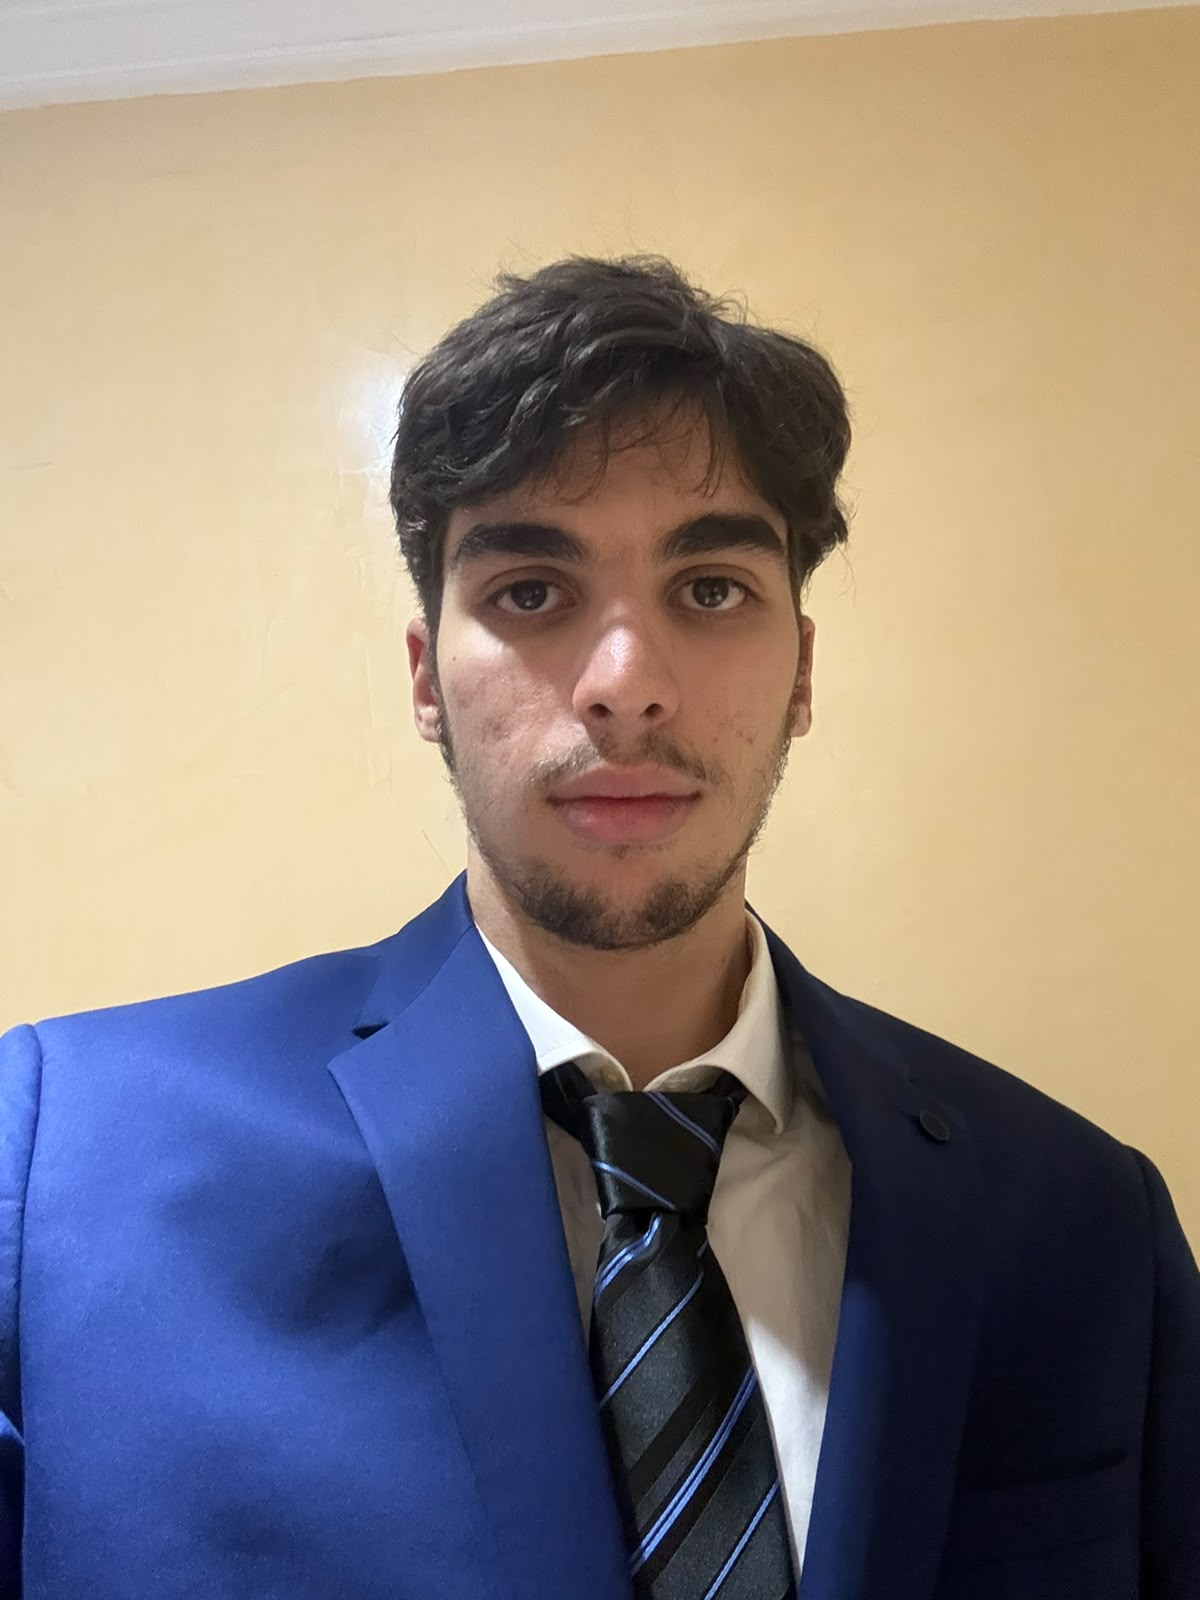
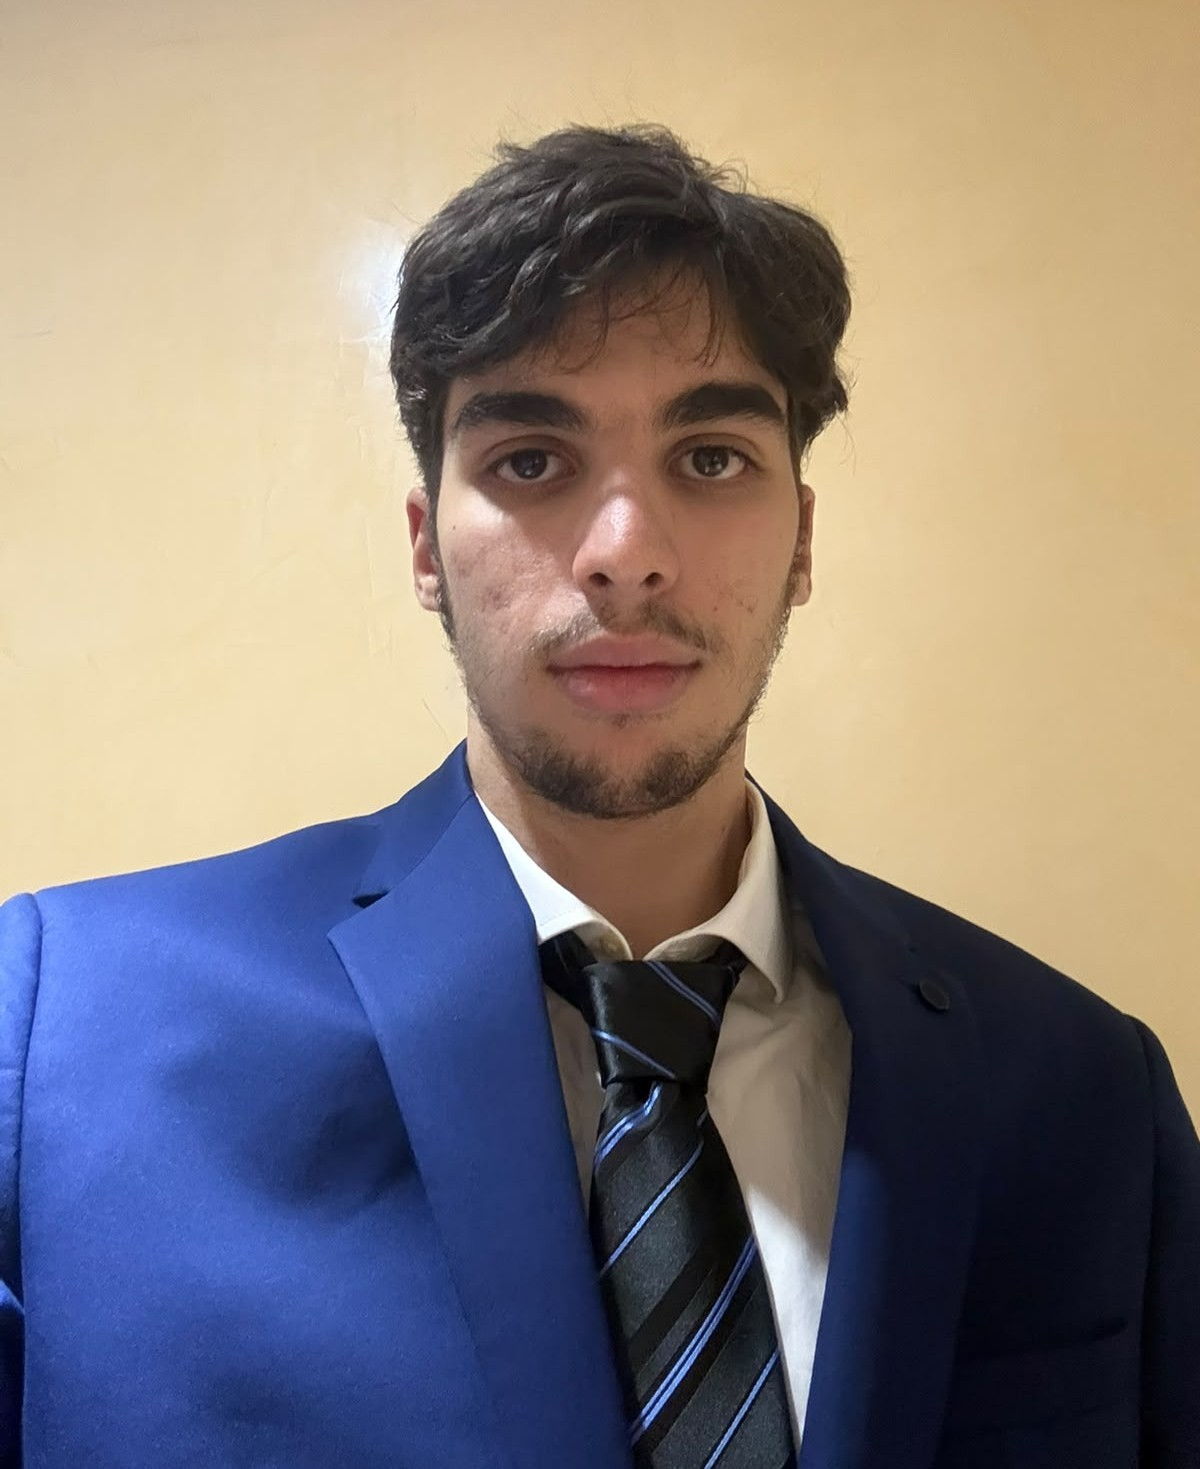
refine skills copy and enrich Wazuh and KASBAH cases

Changed region(s): [[0.0, 0.0, 1.0, 1.0]]

diff --git a/index.html b/index.html
@@ -115,7 +115,7 @@
 
         <aside class="hero-side panel" aria-labelledby="stats-title">
           <figure class="id-photo profile-photo">
-            <img src="assets/photo.jpeg?v=17a42ae" alt="Portrait de Ryad Boujenan" width="560" height="700" decoding="async">
+            <img src="assets/photo.jpeg?v=1396ab21" alt="Portrait de Ryad Boujenan" width="1200" height="1469" decoding="async">
           </figure>
 
           <div class="stats">
@@ -292,6 +292,15 @@
                   </dl>
                 </div>
                 <div class="detail-row">
+                  <h4>Interface Wazuh et alertes</h4>
+                  <figure class="detail-fig">
+                    <a href="assets/projets/wazuh-detection-alerts-rules.png" target="_blank" rel="noopener" title="Ouvrir l'interface Wazuh en grand">
+                      <img src="assets/projets/wazuh-detection-alerts-rules.png" alt="Interface Wazuh : alertes SSH et PAM et règle personnalisée 100002" width="924" height="396" loading="lazy" decoding="async">
+                    </a>
+                    <figcaption>Vue principale du projet : les alertes dans Wazuh, dont les échecs SSH/PAM et la règle personnalisée 100002.</figcaption>
+                  </figure>
+                </div>
+                <div class="detail-row">
                   <h4>Contexte</h4>
                   <p>
                     Déployer un SIEM open source sur une infrastructure hétérogène de plusieurs machines
@@ -342,7 +351,7 @@
                       <p>
                         Les échecs d'authentification SSH et PAM remontent dans le tableau de bord, aux
                         côtés de la règle personnalisée <code>100002</code> qui qualifie la création d'un
-                        compte utilisateur suspect — visible directement sur la carte du projet.
+                        compte utilisateur suspect — visible dans la capture de l'interface ci-dessus.
                       </p>
                     </li>
                   </ul>
@@ -397,6 +406,15 @@
                     <li>Coordination et communication avec les cellules techniques et les interlocuteurs externes.</li>
                     <li>Retour d'expérience utile pour un analyste : une alerte n'a de valeur que si elle est qualifiée et transmise clairement à ceux qui décident.</li>
                   </ul>
+                </div>
+                <div class="detail-row">
+                  <h4>Présentation devant le jury</h4>
+                  <figure class="detail-fig">
+                    <a href="assets/projets/Kasbah_presentation.jpeg" target="_blank" rel="noopener" title="Ouvrir la photo en grand">
+                      <img src="assets/projets/Kasbah_presentation.jpeg" alt="Jury et professionnels de la cybersécurité présents lors de l'exercice KASBAH 2026" width="1206" height="889" loading="lazy" decoding="async">
+                    </a>
+                    <figcaption>Une partie du jury et des professionnels présents lors de l'exercice de crise KASBAH 2026.</figcaption>
+                  </figure>
                 </div>
               </div>
             </details>
@@ -589,8 +607,7 @@
         <p class="eyebrow"><svg class="i" aria-hidden="true"><use href="#i-layers"/></svg>02 · Compétences</p>
         <h2>Outils et domaines</h2>
         <p class="section-sub">
-          Des fondamentaux réseau jusqu'à la détection, en passant par l'offensif et le cloud : les
-          domaines sur lesquels je me forme.
+          Mes domaines de pratique, à travers mes projets, mes laboratoires et mes stages.
         </p>
       </div>
 
@@ -601,8 +618,8 @@
             <h3>Détection &amp; SIEM</h3>
           </div>
           <p class="skill-lead">
-            J'écris des règles de détection sur Elastic Security et Wazuh, je les teste
-            dans mes laboratoires, puis j'analyse les alertes et les journaux Linux et Windows.
+            J'ai travaillé sur la collecte et l'analyse de journaux, la création de règles de
+            détection et l'investigation d'alertes dans mes projets.
           </p>
           <ul class="tags tags--quiet">
             <li>Splunk Enterprise Security (formation)</li><li>Elastic Security / ELK</li><li>Wazuh</li><li>Règles MITRE ATT&amp;CK</li><li>KQL</li><li>EQL</li><li>Triage d'alertes</li><li>Logs Linux &amp; Windows</li><li>Sysmon</li><li>PowerShell logging</li><li>Syslog</li><li>Wireshark</li>
@@ -613,7 +630,7 @@
             <span class="ico-tile"><svg class="i" aria-hidden="true"><use href="#i-server"/></svg></span>
             <h3>Réseaux &amp; systèmes</h3>
           </div>
-          <p class="skill-lead">Je monte mes environnements de travail : postes Linux et Windows, contrôleur de domaine Active Directory, machines virtuelles VMware, et GVM/OpenVAS déployé sous Docker chez Nethash.</p>
+          <p class="skill-lead">J'ai pratiqué l'administration de systèmes Linux et Windows, la virtualisation et les réseaux dans mes projets et mes stages.</p>
           <ul class="tags tags--quiet">
             <li>Linux (Red Hat, Ubuntu)</li><li>Windows Server</li><li>Active Directory</li><li>Docker</li><li>VMware</li><li>TCP/IP</li><li>DNS</li><li>TLS</li><li>VPN</li>
           </ul>
@@ -624,9 +641,8 @@
             <h3>Offensif</h3>
           </div>
           <p class="skill-lead">
-            Je simule des attaques dans mes laboratoires pour éprouver mes détections.
-            Chez Nethash, mes scans GVM/OpenVAS ont contribué à identifier
-            68 vulnérabilités et 122 CVE.
+            J'ai mené des exercices de reconnaissance et de test d'intrusion en laboratoire,
+            ainsi que des scans de vulnérabilités en stage.
           </p>
           <ul class="tags tags--quiet">
             <li>GVM / OpenVAS</li><li>Nessus</li><li>CVE / CVSS</li><li>Nmap</li>
@@ -637,12 +653,12 @@
             <span class="ico-tile"><svg class="i" aria-hidden="true"><use href="#i-cloud"/></svg></span>
             <h3>Cloud</h3>
           </div>
-          <p class="skill-lead">Je me forme aux fondamentaux du cloud avec AWS Academy : gestion des identités, calcul et stockage, réseau virtuel, supervision, et modèle de responsabilité partagée.</p>
+          <p class="skill-lead">J'ai une première expérience pratique d'AWS à travers des exercices d'infrastructure et de sécurité cloud.</p>
           <ul class="tags tags--quiet">
             <li>AWS Academy Cloud Foundations</li><li>IAM</li><li>EC2</li><li>S3</li><li>VPC</li><li>CloudWatch</li><li>Modèle de responsabilité partagée</li><li>Docker</li>
           </ul>
         </div>
-        <div class="skill-group skill-group--programming panel"><div class="panel-head"><span class="ico-tile"><svg class="i" aria-hidden="true"><use href="#i-code"/></svg></span><h3>Programmation</h3></div><ul class="tags tags--quiet"><li>Python</li><li>Java</li><li>C/C++</li><li>JavaScript</li><li>PHP</li><li>SQL</li><li>Bash</li><li>PowerShell</li><li>HTML/CSS</li><li>Django</li></ul></div>
+        <div class="skill-group skill-group--programming panel"><div class="panel-head"><span class="ico-tile"><svg class="i" aria-hidden="true"><use href="#i-code"/></svg></span><h3>Programmation</h3></div><p class="skill-lead">J'utilise différents langages et technologies selon les projets, du développement au scripting et à l'automatisation.</p><ul class="tags tags--quiet"><li>Python</li><li>Java</li><li>C/C++</li><li>JavaScript</li><li>PHP</li><li>SQL</li><li>Bash</li><li>PowerShell</li><li>HTML/CSS</li><li>Django</li></ul></div>
       </div>
 
 

diff --git a/en/index.html b/en/index.html
@@ -112,7 +112,7 @@
 
         <aside class="hero-side panel" aria-labelledby="stats-title">
           <figure class="id-photo profile-photo">
-            <img src="../assets/photo.jpeg?v=17a42ae" alt="Portrait of Ryad Boujenan" width="560" height="700" decoding="async">
+            <img src="../assets/photo.jpeg?v=1396ab21" alt="Portrait of Ryad Boujenan" width="1200" height="1469" decoding="async">
           </figure>
 
           <div class="stats">
@@ -288,6 +288,15 @@
                   </dl>
                 </div>
                 <div class="detail-row">
+                  <h4>Wazuh interface and alerts</h4>
+                  <figure class="detail-fig">
+                    <a href="../assets/projets/wazuh-detection-alerts-rules.png" target="_blank" rel="noopener" title="Open the Wazuh interface full size">
+                      <img src="../assets/projets/wazuh-detection-alerts-rules.png" alt="Wazuh interface: SSH and PAM alerts and custom rule 100002" width="924" height="396" loading="lazy" decoding="async">
+                    </a>
+                    <figcaption>The project's main view: alerts in Wazuh, including SSH/PAM failures and custom rule 100002.</figcaption>
+                  </figure>
+                </div>
+                <div class="detail-row">
                   <h4>Context</h4>
                   <p>
                     Deploy an open-source SIEM across a mixed infrastructure of several virtual
@@ -338,7 +347,7 @@
                       <p>
                         The SSH and PAM authentication failures surface on the dashboard, alongside the
                         custom rule <code>100002</code> that flags the creation of a suspicious user
-                        account — visible directly on the project card.
+                        account — visible in the interface screenshot above.
                       </p>
                     </li>
                   </ul>
@@ -393,6 +402,15 @@
                     <li>Coordinated and communicated with the technical cells and external stakeholders.</li>
                     <li>A useful lesson for an analyst: an alert is only worth something if it is qualified and passed on clearly to the people who decide.</li>
                   </ul>
+                </div>
+                <div class="detail-row">
+                  <h4>Presentation to the jury</h4>
+                  <figure class="detail-fig">
+                    <a href="../assets/projets/Kasbah_presentation.jpeg" target="_blank" rel="noopener" title="Open photo full size">
+                      <img src="../assets/projets/Kasbah_presentation.jpeg" alt="Jury and cybersecurity professionals attending the KASBAH 2026 exercise" width="1206" height="889" loading="lazy" decoding="async">
+                    </a>
+                    <figcaption>Some of the jury and professionals attending the KASBAH 2026 crisis exercise.</figcaption>
+                  </figure>
                 </div>
               </div>
             </details>
@@ -584,8 +602,7 @@
         <p class="eyebrow"><svg class="i" aria-hidden="true"><use href="#i-layers"/></svg>02 · Skills</p>
         <h2>Tools and areas</h2>
         <p class="section-sub">
-          From network fundamentals to detection, by way of offensive security and cloud: the areas
-          I'm building skills in.
+          The areas I've practised through projects, labs and internships.
         </p>
       </div>
 
@@ -596,8 +613,8 @@
             <h3>Detection &amp; SIEM</h3>
           </div>
           <p class="skill-lead">
-            I write detection rules on Elastic Security and Wazuh, test them in my labs,
-            then analyse the alerts and the Linux and Windows logs.
+            I've worked on log collection and analysis, detection rules and alert investigation
+            in my projects.
           </p>
           <ul class="tags tags--quiet">
             <li>Splunk Enterprise Security (training)</li><li>Elastic Security / ELK</li><li>Wazuh</li><li>MITRE ATT&amp;CK rules</li><li>KQL</li><li>EQL</li><li>Alert triage</li><li>Linux &amp; Windows logs</li><li>Sysmon</li><li>PowerShell logging</li><li>Syslog</li><li>Wireshark</li>
@@ -608,7 +625,7 @@
             <span class="ico-tile"><svg class="i" aria-hidden="true"><use href="#i-server"/></svg></span>
             <h3>Networks &amp; systems</h3>
           </div>
-          <p class="skill-lead">I build my own working environments: Linux and Windows hosts, an Active Directory domain controller, VMware virtual machines, and GVM/OpenVAS deployed in Docker at Nethash.</p>
+          <p class="skill-lead">I've gained hands-on experience with Linux and Windows administration, virtualisation and networking through projects and internships.</p>
           <ul class="tags tags--quiet">
             <li>Linux (Red Hat, Ubuntu)</li><li>Windows Server</li><li>Active Directory</li><li>Docker</li><li>VMware</li><li>TCP/IP</li><li>DNS</li><li>TLS</li><li>VPN</li>
           </ul>
@@ -619,9 +636,8 @@
             <h3>Offensive</h3>
           </div>
           <p class="skill-lead">
-            I simulate attacks in my labs to stress-test my detections.
-            At Nethash, my GVM/OpenVAS scans helped identify
-            68 vulnerabilities and 122 CVEs.
+            I've carried out reconnaissance and penetration testing exercises in labs,
+            as well as vulnerability scans during an internship.
           </p>
           <ul class="tags tags--quiet">
             <li>GVM / OpenVAS</li><li>Nessus</li><li>CVE / CVSS</li><li>Nmap</li>
@@ -632,12 +648,12 @@
             <span class="ico-tile"><svg class="i" aria-hidden="true"><use href="#i-cloud"/></svg></span>
             <h3>Cloud</h3>
           </div>
-          <p class="skill-lead">I am training on cloud fundamentals with AWS Academy: identity management, compute and storage, virtual networking, monitoring, and the shared responsibility model.</p>
+          <p class="skill-lead">I have initial hands-on experience with AWS through cloud infrastructure and security exercises.</p>
           <ul class="tags tags--quiet">
             <li>AWS Academy Cloud Foundations</li><li>IAM</li><li>EC2</li><li>S3</li><li>VPC</li><li>CloudWatch</li><li>Shared responsibility model</li><li>Docker</li>
           </ul>
         </div>
-        <div class="skill-group skill-group--programming panel"><div class="panel-head"><span class="ico-tile"><svg class="i" aria-hidden="true"><use href="#i-code"/></svg></span><h3>Programming</h3></div><ul class="tags tags--quiet"><li>Python</li><li>Java</li><li>C/C++</li><li>JavaScript</li><li>PHP</li><li>SQL</li><li>Bash</li><li>PowerShell</li><li>HTML/CSS</li><li>Django</li></ul></div>
+        <div class="skill-group skill-group--programming panel"><div class="panel-head"><span class="ico-tile"><svg class="i" aria-hidden="true"><use href="#i-code"/></svg></span><h3>Programming</h3></div><p class="skill-lead">I use different languages and technologies across projects, from development to scripting and automation.</p><ul class="tags tags--quiet"><li>Python</li><li>Java</li><li>C/C++</li><li>JavaScript</li><li>PHP</li><li>SQL</li><li>Bash</li><li>PowerShell</li><li>HTML/CSS</li><li>Django</li></ul></div>
       </div>
 
 

diff --git a/projets/index.html b/projets/index.html
@@ -243,6 +243,15 @@
                   </dl>
                 </div>
                 <div class="detail-row">
+                  <h4>Interface Wazuh et alertes</h4>
+                  <figure class="detail-fig">
+                    <a href="../assets/projets/wazuh-detection-alerts-rules.png" target="_blank" rel="noopener" title="Ouvrir l'interface Wazuh en grand">
+                      <img src="../assets/projets/wazuh-detection-alerts-rules.png" alt="Interface Wazuh : alertes SSH et PAM et règle personnalisée 100002" width="924" height="396" loading="lazy" decoding="async">
+                    </a>
+                    <figcaption>Vue principale du projet : les alertes dans Wazuh, dont les échecs SSH/PAM et la règle personnalisée 100002.</figcaption>
+                  </figure>
+                </div>
+                <div class="detail-row">
                   <h4>Contexte</h4>
                   <p>
                     Déployer un SIEM open source sur une infrastructure hétérogène de plusieurs machines
@@ -293,7 +302,7 @@
                       <p>
                         Les échecs d'authentification SSH et PAM remontent dans le tableau de bord, aux
                         côtés de la règle personnalisée <code>100002</code> qui qualifie la création d'un
-                        compte utilisateur suspect — visible directement sur la carte du projet.
+                        compte utilisateur suspect — visible dans la capture de l'interface ci-dessus.
                       </p>
                     </li>
                   </ul>
@@ -348,6 +357,15 @@
                     <li>Coordination et communication avec les cellules techniques et les interlocuteurs externes.</li>
                     <li>Retour d'expérience utile pour un analyste : une alerte n'a de valeur que si elle est qualifiée et transmise clairement à ceux qui décident.</li>
                   </ul>
+                </div>
+                <div class="detail-row">
+                  <h4>Présentation devant le jury</h4>
+                  <figure class="detail-fig">
+                    <a href="../assets/projets/Kasbah_presentation.jpeg" target="_blank" rel="noopener" title="Ouvrir la photo en grand">
+                      <img src="../assets/projets/Kasbah_presentation.jpeg" alt="Jury et professionnels de la cybersécurité présents lors de l'exercice KASBAH 2026" width="1206" height="889" loading="lazy" decoding="async">
+                    </a>
+                    <figcaption>Une partie du jury et des professionnels présents lors de l'exercice de crise KASBAH 2026.</figcaption>
+                  </figure>
                 </div>
               </div>
             </details>

diff --git a/en/projects/index.html b/en/projects/index.html
@@ -242,6 +242,15 @@
                   </dl>
                 </div>
                 <div class="detail-row">
+                  <h4>Wazuh interface and alerts</h4>
+                  <figure class="detail-fig">
+                    <a href="../../assets/projets/wazuh-detection-alerts-rules.png" target="_blank" rel="noopener" title="Open the Wazuh interface full size">
+                      <img src="../../assets/projets/wazuh-detection-alerts-rules.png" alt="Wazuh interface: SSH and PAM alerts and custom rule 100002" width="924" height="396" loading="lazy" decoding="async">
+                    </a>
+                    <figcaption>The project's main view: alerts in Wazuh, including SSH/PAM failures and custom rule 100002.</figcaption>
+                  </figure>
+                </div>
+                <div class="detail-row">
                   <h4>Context</h4>
                   <p>
                     Deploy an open-source SIEM across a mixed infrastructure of several virtual
@@ -292,7 +301,7 @@
                       <p>
                         The SSH and PAM authentication failures surface on the dashboard, alongside the
                         custom rule <code>100002</code> that flags the creation of a suspicious user
-                        account — visible directly on the project card.
+                        account — visible in the interface screenshot above.
                       </p>
                     </li>
                   </ul>
@@ -347,6 +356,15 @@
                     <li>Coordinated and communicated with the technical cells and external stakeholders.</li>
                     <li>A useful lesson for an analyst: an alert is only worth something if it is qualified and passed on clearly to the people who decide.</li>
                   </ul>
+                </div>
+                <div class="detail-row">
+                  <h4>Presentation to the jury</h4>
+                  <figure class="detail-fig">
+                    <a href="../../assets/projets/Kasbah_presentation.jpeg" target="_blank" rel="noopener" title="Open photo full size">
+                      <img src="../../assets/projets/Kasbah_presentation.jpeg" alt="Jury and cybersecurity professionals attending the KASBAH 2026 exercise" width="1206" height="889" loading="lazy" decoding="async">
+                    </a>
+                    <figcaption>Some of the jury and professionals attending the KASBAH 2026 crisis exercise.</figcaption>
+                  </figure>
                 </div>
               </div>
             </details>

diff --git a/AGENTS.md b/AGENTS.md
@@ -7,6 +7,7 @@
 - Marque sans cadre RB, photo rectangulaire respectant son cadrage d’origine.
 - Projets en grille compacte régulière (2–3 colonnes sur ordinateur), sans carte vedette ; catégories lisibles.
 - Bloc Programmation synthétique ; ne pas réintroduire le paragraphe générique « Mon approche ».
+- Décrire les compétences de façon générale et exacte ; garder les détails chiffrés dans les expériences et études de cas.
 - Contact direct et mini-formulaire mailto honnête : brouillon dans la messagerie, aucun envoi depuis le site.
 - Maintenir la cohérence des six pages françaises et anglaises.
 - Ne jamais inventer d’expériences, compétences, certifications ou réalisations.
